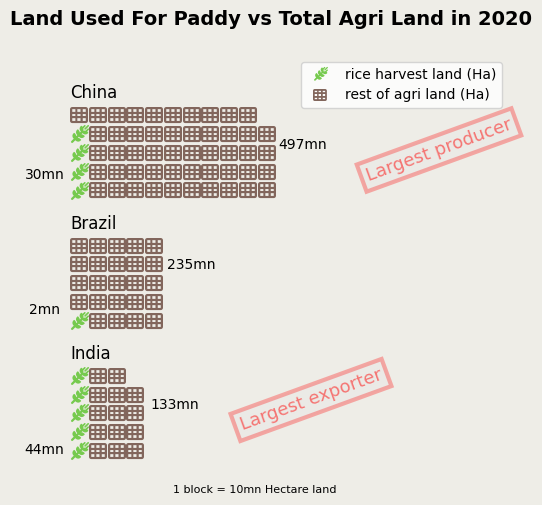
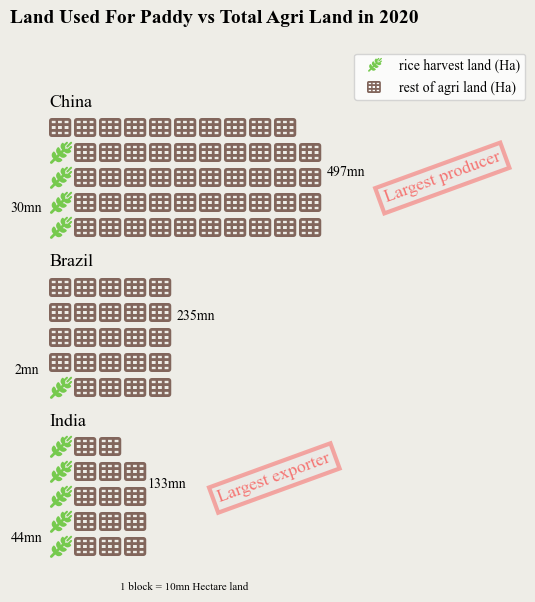
update index.html

Changed region(s): [[0.0299, 0.0891, 0.9869, 0.9802], [0.0, 0.0, 0.9869, 0.0594], [0.3888, 0.7129, 0.7477, 0.8911]]

diff --git a/rice-project/index.html b/rice-project/index.html
@@ -11,10 +11,11 @@
 body {
     margin-left: 150px;
     max-width: 1100px;
+    margin-right: 150px;
+    font-family: 'Times New Roman', Times, serif;
 }
 
 p {
-    font-family: 'Times New Roman', Times, serif;
     font-size: 20px;
 }
 
